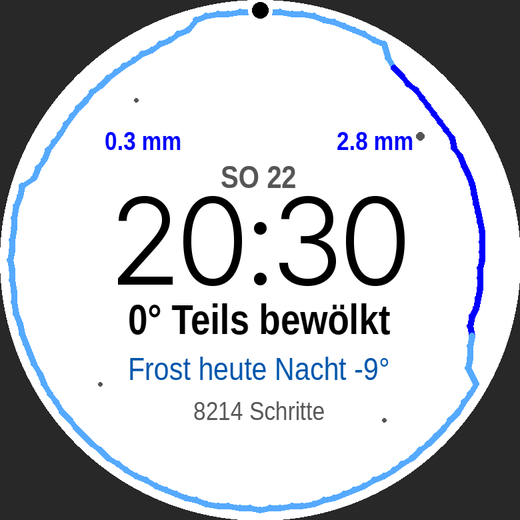
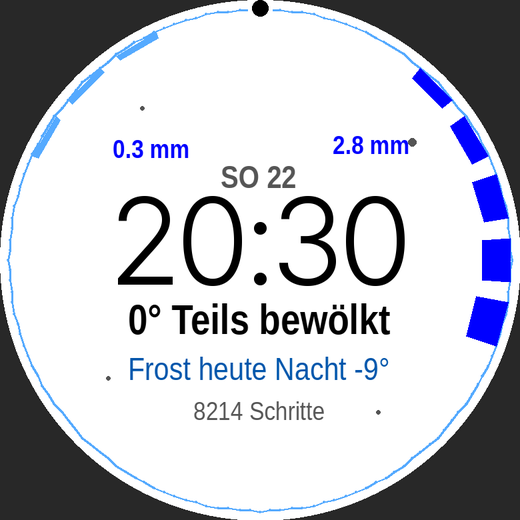
Rain as an hourly bar chart round the edge
Claude-Session: https://claude.ai/code/session_015HmYPjfyQ65s3v6ZviQxa9

diff --git a/src/pkjs/config.js b/src/pkjs/config.js
@@ -7,7 +7,7 @@ module.exports = [
   },
   {
     type: 'text',
-    defaultValue: 'The next hours of rain as one thin blue line around a big clock.'
+    defaultValue: 'The next hours of rain as a blue bar chart around a big clock.'
   },
 
   {
@@ -77,7 +77,7 @@ module.exports = [
         type: 'toggle',
         messageKey: 'Anim',
         label: 'Animations',
-        description: 'The line draws itself when the face opens; a wrist flick walks through the coming hours. Always off in Quiet Time and below 20% battery.',
+        description: 'The chart draws itself when the face opens; a wrist flick walks through the coming hours. Always off in Quiet Time and below 20% battery.',
         defaultValue: true
       }
     ]

diff --git a/src/c/draw.c b/src/c/draw.c
@@ -1,11 +1,11 @@
 #include "contour.h"
 
-// The face: one thin blue line round the edge of the screen, starting at the
-// dot at the top ("now") and running clockwise into the coming hours, like a
-// contour line. It hugs the edge while it stays dry and bends inward where
-// rain is coming: the deeper the bend, the more rain, and each rain spell is
-// labelled with its heaviest hour in mm (or inch). Likely rain is full blue,
-// dry or unlikely stretches are pale. Small dots mark 00, 06, 12 and 18 o'clock.
+// The face: an hourly rain bar chart round the edge of the screen, starting at
+// the dot at the top ("now") and running clockwise into the coming hours.
+// Bars grow inward from a faint base line: the longer the bar, the more rain.
+// Likely rain is full blue, unlikely rain pale, and each rain spell is
+// labelled with its heaviest hour in mm (or inch). Small dots mark 00, 06, 12
+// and 18 o'clock.
 
 #define FRAC 65536
 
@@ -18,13 +18,11 @@ typedef struct {
 // ---------------------------------------------------------------------------
 
 #if defined(PBL_ROUND)
-#define RAIN_EDGE 5       // the line when dry: pixels from the screen edge
-#define RAIN_DEPTH 18     // how far in it bends for heavy rain
-#define RAIN_W 3
+#define RAIN_EDGE 4       // base line: pixels from the screen edge
+#define RAIN_DEPTH 24     // longest bar (4 mm/h or more)
 #else
-#define RAIN_EDGE 3
-#define RAIN_DEPTH 12
-#define RAIN_W 2
+#define RAIN_EDGE 2
+#define RAIN_DEPTH 15
 #define CORNER_R 18
 #endif
 #define TICK_IN (RAIN_EDGE + RAIN_DEPTH + 5)
@@ -85,11 +83,13 @@ static GPoint rect_pt(GRect b, int32_t f, int inset) {
 // Where "now" sits when the face is turned: fraction of the way round.
 static int32_t s_tilt_f;
 
+#if !defined(PBL_ROUND)
 static int32_t isqrt(int32_t v) {
   int32_t r = 0;
   while ((r + 1) * (r + 1) <= v) r++;
   return r;
 }
+#endif
 
 // The point at fraction f round the face, `inset` pixels in from the edge,
 // measured at right angles to the edge.
@@ -175,30 +175,22 @@ static int32_t frac_of(time_t t, time_t now, int range_s) {
   return (int32_t)((int64_t)(t - now) * FRAC / range_s);
 }
 
-// How far the line bends in at time t (0 when dry). Hourly amounts are
-// placed at the middle of their hour and blended in between; a square root
-// keeps light rain visible while heavy rain still bends deeper.
-static int rain_depth_of(int32_t p) {
+// Bar length for an hour's rain (0.1 mm). Linear up to 4 mm/h, with a short
+// minimum so a drizzle still shows.
+static int bar_len(int32_t p) {
   if (p < 1) return 0;
-  if (p > 40) p = 40;                                  // 4 mm/h fills the depth
-  return 2 + (int)(isqrt(p * 100) * (RAIN_DEPTH - 2) / 63);
+  if (p > 40) p = 40;
+  int len = (int)(p * RAIN_DEPTH / 40);
+  return len < 3 ? 3 : len;
 }
 
-static int rain_depth(time_t t, bool *likely) {
-  *likely = false;
-  if (g_wx.count == 0) return 0;
-  int32_t x = (int32_t)(t - (time_t)g_wx.t0) - 1800;   // seconds past hour 0's middle
-  if (x < 0) x = 0;
-  int k = x / 3600;
-  if (k >= g_wx.count) return 0;
-  int32_t frac = x % 3600;
-  int32_t a = g_wx.precip[k];
-  int32_t c = k + 1 < g_wx.count ? g_wx.precip[k + 1] : a;
-  int32_t p = a + (c - a) * frac / 3600;               // 0.1 mm per hour
-  uint8_t pr = frac < 1800 || k + 1 >= g_wx.count ? g_wx.prob[k] : g_wx.prob[k + 1];
-  // Dry stretches stay pale, so the rain stands out in full blue.
-  *likely = p >= 1 && (pr == PROB_UNKNOWN || pr >= 50);
-  return rain_depth_of(p);
+static void fill_quad(GContext *ctx, GPoint a, GPoint c, GPoint d, GPoint e) {
+  GPoint pts[4] = {a, c, d, e};
+  GPathInfo info = { .num_points = 4, .points = pts };
+  GPath *path = gpath_create(&info);
+  if (!path) return;
+  gpath_draw_filled(ctx, path);
+  gpath_destroy(path);
 }
 
 static bool rects_overlap(GRect a, GRect c) {
@@ -212,14 +204,14 @@ static bool label_fits(GRect b, GRect box) {
   int cx = b.origin.x + b.size.w / 2, cy = b.origin.y + b.size.h / 2;
 #if defined(PBL_ROUND)
   // All four corners inside the circle, with a small margin.
-  int r = b.size.w / 2 - RAIN_EDGE - RAIN_DEPTH - 3;   // clear of the line
+  int r = b.size.w / 2 - RAIN_EDGE - RAIN_DEPTH - 3;   // clear of the bars
   for (int i = 0; i < 4; i++) {
     int x = box.origin.x + (i & 1 ? box.size.w : 0) - cx;
     int y = box.origin.y + (i & 2 ? box.size.h : 0) - cy;
     if (x * x + y * y > r * r) return false;
   }
 #else
-  const int m = RAIN_EDGE + RAIN_DEPTH + 2;            // clear of the line
+  const int m = RAIN_EDGE + RAIN_DEPTH + 2;            // clear of the bars
   if (box.origin.x < b.origin.x + m || box.origin.y < b.origin.y + m ||
       box.origin.x + box.size.w > b.origin.x + b.size.w - m ||
       box.origin.y + box.size.h > b.origin.y + b.size.h - m) return false;
@@ -249,7 +241,7 @@ static void draw_rain_label(GContext *ctx, GRect b, const Theme *th, time_t now,
     if (t < (time_t)g_wx.t0 + (time_t)k0 * 3600 || t > (time_t)g_wx.t0 + (time_t)(k1 + 1) * 3600) continue;
     if (t < now || t >= now + range_s) continue;
     int32_t f = frac_of(t, now, range_s);
-    for (int in = RAIN_EDGE + RAIN_DEPTH + 8; in <= RAIN_EDGE + RAIN_DEPTH + 32; in += 4) {
+    for (int in = RAIN_EDGE + bar_len(g_wx.precip[peak]) + 10; in <= RAIN_EDGE + RAIN_DEPTH + 34; in += 4) {
       GPoint p = track_pt(b, f, in);
       GRect box = GRect(p.x - 20, p.y - 7, 40, 14);
       if (!label_fits(b, box)) continue;
@@ -280,23 +272,37 @@ static void draw_track(GContext *ctx, GRect b, const Theme *th, time_t now) {
     graphics_fill_circle(ctx, track_pt(b, f, TICK_IN), tm->tm_hour == 0 ? 2 : 1);
   }
 
-  // The rain line, all the way round.
-  graphics_context_set_stroke_width(ctx, RAIN_W);
-  GPoint prev = GPoint(0, 0);
-  for (int s = 0; s <= shown; s++) {
-    int32_t f = (int32_t)s * FRAC / steps;
-    time_t t = now + (time_t)s * range_s / steps;
-    bool likely;
-    GPoint p = track_pt(b, f, RAIN_EDGE + rain_depth(t, &likely));
-    if (s > 0) {
-      graphics_context_set_stroke_color(ctx, likely ? th->rain : th->rain_light);
-      graphics_draw_line(ctx, prev, p);
-    }
+  // A faint base line round the edge, so dry hours still read as "dry".
+  graphics_context_set_stroke_color(ctx, th->rain_light);
+  graphics_context_set_stroke_width(ctx, 1);
+  GPoint prev = track_pt(b, 0, RAIN_EDGE);
+  for (int s = 1; s <= shown; s++) {
+    GPoint p = track_pt(b, (int32_t)s * FRAC / steps, RAIN_EDGE);
+    graphics_draw_line(ctx, prev, p);
     prev = p;
   }
 
-  // Amount at the heaviest hour of each rain spell (up to 4 spells).
+  // One bar per hour, growing inward from the edge.
   int first = wx_index_at(now);
+  if (first >= 0) {
+    const int32_t gap = FRAC / range * 15 / 100;   // space between bars
+    for (int k = first; k < g_wx.count; k++) {
+      time_t h0 = (time_t)g_wx.t0 + (time_t)k * 3600, h1 = h0 + 3600;
+      if (h0 >= now + range_s) break;
+      int len = bar_len(g_wx.precip[k]);
+      if (!len) continue;
+      int32_t f0 = frac_of(h0 < now ? now : h0, now, range_s) + (h0 < now ? 0 : gap);
+      int32_t f1 = frac_of(h1 > now + range_s ? now + range_s : h1, now, range_s) - gap;
+      if (f1 <= f0) continue;
+      if (f1 * 1000 / FRAC > g_view.reveal) continue;
+      bool likely = g_wx.prob[k] == PROB_UNKNOWN || g_wx.prob[k] >= 50;
+      graphics_context_set_fill_color(ctx, likely ? th->rain : th->rain_light);
+      fill_quad(ctx, track_pt(b, f0, RAIN_EDGE), track_pt(b, f1, RAIN_EDGE),
+                track_pt(b, f1, RAIN_EDGE + len), track_pt(b, f0, RAIN_EDGE + len));
+    }
+  }
+
+  // Amount at the heaviest hour of each rain spell (up to 4 spells).
   if (first >= 0 && g_view.reveal >= 1000) {
     int labels = 0, peak = -1, k0 = -1;
     for (int k = first; k <= g_wx.count && labels < 4; k++) {
@@ -315,17 +321,15 @@ static void draw_track(GContext *ctx, GRect b, const Theme *th, time_t now) {
     }
   }
 
-  // "Now" marker on the line, and the scroll cursor during a wrist flick.
-  bool likely;
-  GPoint now_p = track_pt(b, 0, RAIN_EDGE + rain_depth(now, &likely));
+  // "Now" marker on the base line, and the scroll cursor during a wrist flick.
+  GPoint now_p = track_pt(b, 0, RAIN_EDGE);
   graphics_context_set_fill_color(ctx, th->bg);
   graphics_fill_circle(ctx, now_p, 6);
   graphics_context_set_fill_color(ctx, th->fg);
   graphics_fill_circle(ctx, now_p, 4);
   if (g_view.scrub >= 0) {
     int32_t f = (int32_t)((int64_t)g_view.scrub * FRAC / (range * 10));
-    time_t t = now + (time_t)g_view.scrub * 360;
-    GPoint p = track_pt(b, f, RAIN_EDGE + rain_depth(t, &likely));
+    GPoint p = track_pt(b, f, RAIN_EDGE);
     graphics_context_set_fill_color(ctx, th->bg);
     graphics_fill_circle(ctx, p, 6);
     graphics_context_set_fill_color(ctx, th->accent);

diff --git a/tools/preview/pebble.h b/tools/preview/pebble.h
@@ -78,3 +78,8 @@ void graphics_draw_line(GContext *c, GPoint a, GPoint b);
 void graphics_fill_radial(GContext *c, GRect r, GOvalScaleMode m, uint16_t inset, int32_t a0, int32_t a1);
 void graphics_draw_text(GContext *c, const char *t, GFont f, GRect r, GTextOverflowMode o, GTextAlignment a, void *attr);
 GSize graphics_text_layout_get_content_size(const char *t, GFont f, GRect r, GTextOverflowMode o, GTextAlignment a);
+typedef struct { uint32_t num_points; GPoint *points; } GPathInfo;
+typedef struct GPath GPath;
+GPath *gpath_create(const GPathInfo *info);
+void gpath_draw_filled(GContext *c, GPath *p);
+void gpath_destroy(GPath *p);

diff --git a/tools/preview/stub.c b/tools/preview/stub.c
@@ -88,3 +88,11 @@ GSize graphics_text_layout_get_content_size(const char *t, GFont f, GRect r, GTe
   int w = n * cw; if (w > r.size.w) w = r.size.w;
   return (GSize){(int16_t)w, (int16_t)h};
 }
+struct GPath { GPathInfo info; };
+GPath *gpath_create(const GPathInfo *info) { GPath *p = malloc(sizeof *p); p->info = *info; return p; }
+void gpath_destroy(GPath *p) { free(p); }
+void gpath_draw_filled(GContext *c, GPath *p) {
+  printf("[\"poly\",%d,[", c->fill.argb);
+  for (uint32_t i = 0; i < p->info.num_points; i++) printf("%s%d,%d", i ? "," : "", p->info.points[i].x, p->info.points[i].y);
+  printf("]]\n");
+}

diff --git a/tools/preview/render.py b/tools/preview/render.py
@@ -48,6 +48,9 @@ def render(log, w, h, round_, out):
                 ang = (a0 + (a1 - a0) * i / n) / 65536 * 2 * math.pi
                 pts.append((cx + math.sin(ang) * (R - t * S), cy - math.cos(ang) * (R - t * S)))
             d.polygon(pts, fill=col(a))
+        elif k == "poly":
+            _, a, pts = c
+            d.polygon([(pts[i] * S, pts[i + 1] * S) for i in range(0, len(pts), 2)], fill=col(a))
         elif k == "rotate":
             _, deg, a = c
             img = img.rotate(-deg, resample=Image.NEAREST, center=(w * S / 2, h * S / 2), fillcolor=col(a))

diff --git a/README.md b/README.md
@@ -1,7 +1,7 @@
 # Contour
 
-A minimal Pebble watchface: the next hours of rain drawn as one thin blue line
-around a big clock, like a contour line on a weather map. Built for Pebble Time 2
+A minimal Pebble watchface: the next hours of rain drawn as a
+blue bar chart around a big clock. Built for Pebble Time 2
 (`emery`) and Pebble Round 2 (`gabbro`).
 
 | Round 2 | Round 2, Daylight | Round 2, tilted 30° | Time 2 | Time 2, wrist flick |
@@ -13,14 +13,14 @@ fonts, so the lettering differs a little from the watch._
 
 ## How to read it
 
-- **One blue line** runs all the way round the edge, starting at the dot at the
-  top (now) and running clockwise. Round 2 shows 24 hours. On Time 2 you can
-  choose 12, 24 or 48 hours.
-- **Rain** bends the line inward: the deeper the bend, the more rain. It turns
-  full blue where rain is likely and stays pale where it's dry or rain is
-  unlikely. In Mono it's white and grey.
+- **A blue bar chart** runs all the way round the edge, one bar per hour,
+  starting at the dot at the top (now) and running clockwise. Round 2 shows
+  24 hours. On Time 2 you can choose 12, 24 or 48 hours.
+- **Bars** grow inward from a faint base line: the longer the bar, the more
+  rain (full length at 4 mm/h). Likely rain is full blue and unlikely rain is
+  pale. In Mono they're white and grey.
 - **Rain amounts**: each rain spell is labelled with its heaviest hour, like
-  `2.8 mm` (or `.11 in`), placed as close to the deepest point as fits beside
+  `2.8 mm` (or `.11 in`), placed as close to the longest bar as fits beside
   the text.
 - **Small dots** mark 00, 06, 12 and 18 o'clock. The midnight dot is bigger.
 - **Middle**: the date, the time in large Inter Light digits, the current temperature and sky, then a
@@ -79,7 +79,7 @@ which is why npm must be installed.
 | Path | What it does |
 |---|---|
 | `src/c/main.c` | Watch app: storage, messages from the phone, ticks, battery, health, animations |
-| `src/c/draw.c` | Draws the rain line, its labels and the text |
+| `src/c/draw.c` | Draws the rain bars, their labels and the text |
 | `src/c/tilt.c` | Turns the face when a tilt is set |
 | `src/c/text.c` | Translations, units, and the smart line |
 | `src/c/weather.c` | Small helpers for the stored forecast |
